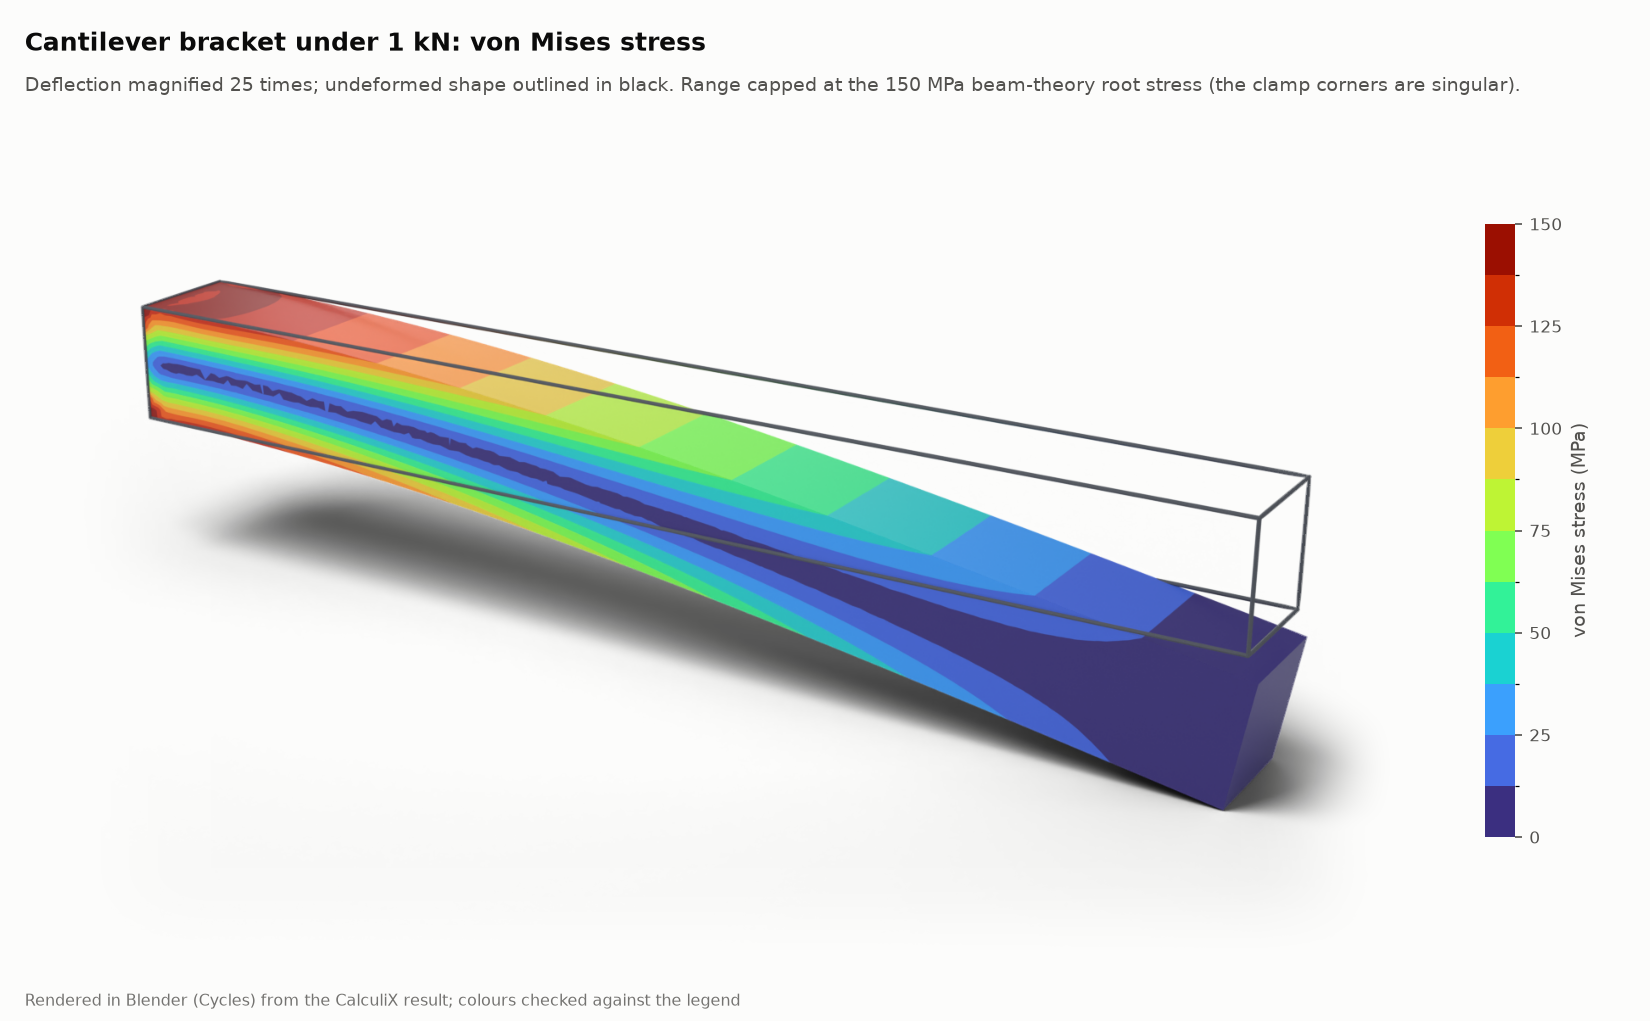
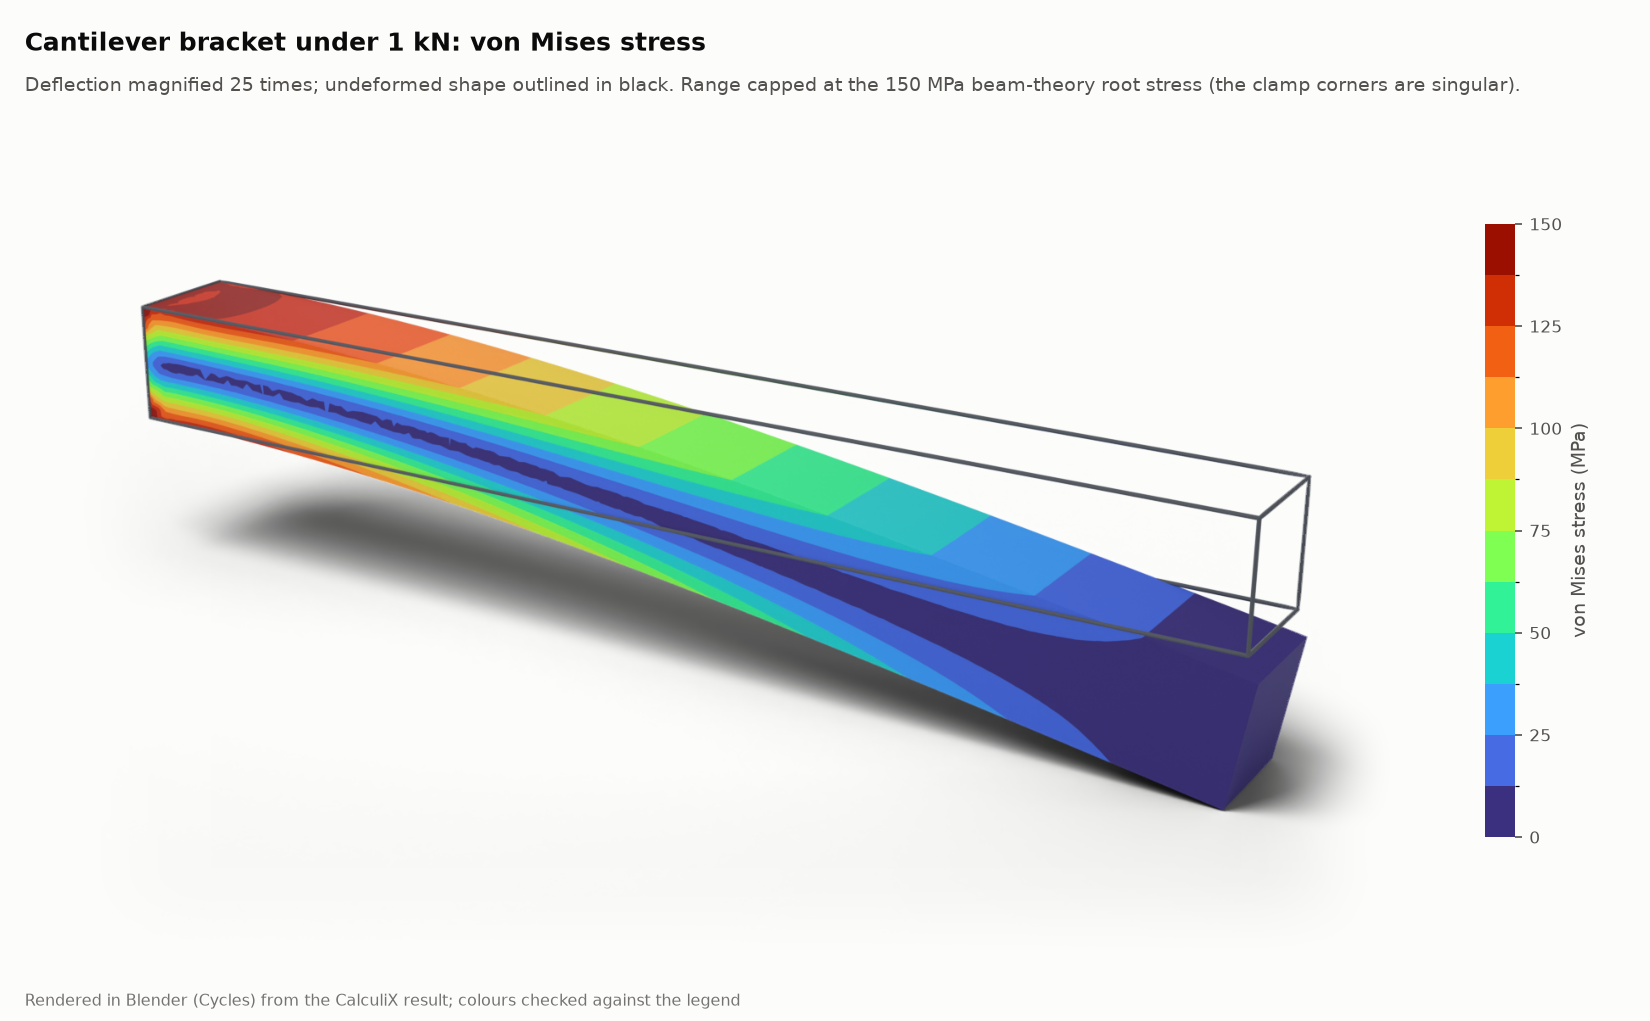
Turntable render and matte contours; README: reading the repo on another machine
render_scene.py: turntable mode (part turns under fixed lights, framing over the
whole rotation); contour material made matte so glare cannot wash out the
colours at any angle. All 16 renders re-rendered; every one passes the geometry
and legend-colour checks.

Changed region(s): [[0.1236, 0.2733, 0.4327, 0.4251], [0.7727, 0.6376, 0.8036, 0.6983]]

diff --git a/scripts/make_renders.py b/scripts/make_renders.py
@@ -356,9 +356,52 @@ def scene_duct():
                                "The volume under the surface equals the imposed flow rate (render check).")
 
 
+def scene_turntable():
+    """The cantilever result, turning: same arrays and checks, plus turntable frames."""
+    import shutil as _sh
+
+    src = scene_cantilever()
+    for ext in (".npz",):
+        _sh.copyfile(src.with_suffix(ext), BUILD / f"turntable{ext}")
+    meta = json.loads(src.with_suffix(".json").read_text(encoding="utf-8"))
+    meta.update(turntable_frames=48, turntable_samples=40, turntable_scale_percent=50, elev=18,
+                distance_factor=3.2, fill=0.92)
+    (BUILD / "turntable.json").write_text(json.dumps(meta, indent=2), encoding="utf-8")
+    return BUILD / "turntable.npz"
+
+
+def assemble_turntable(scene: Path, out_path: Path):
+    """Composite the turntable frames on the page colour with the legend; animated WebP."""
+    from PIL import Image
+
+    meta = json.loads(scene.with_suffix(".json").read_text(encoding="utf-8"))
+    frames = sorted(scene.parent.glob(f"{scene.stem}_tt_*.png"))
+    out = []
+    for f in frames:
+        fig = plt.figure(figsize=(8, 8 * 0.62), facecolor=SURFACE)
+        ax = fig.add_axes((0.0, 0.0, 0.86, 0.9))
+        ax.set_facecolor(SURFACE)
+        img = plt.imread(f)
+        h, w = img.shape[:2]
+        fade = np.outer(np.clip(np.minimum(np.arange(h), np.arange(h)[::-1]) / (0.12 * h), 0, 1),
+                        np.clip(np.minimum(np.arange(w), np.arange(w)[::-1]) / (0.12 * w), 0, 1))
+        img = img.copy()
+        img[..., 3] = np.where(img[..., 3] < 0.999, img[..., 3] * fade, img[..., 3])
+        ax.imshow(img)
+        ax.set_axis_off()
+        legend(fig, (0.885, 0.15, 0.022, 0.62), meta)
+        fig.text(0.015, 0.95, "Cantilever under 1 kN: von Mises stress on the deformed part (deflection ×25)",
+                 color=TEXT, fontsize=10.5, weight="bold", va="center")
+        fig.canvas.draw()
+        rgba = np.asarray(fig.canvas.buffer_rgba())
+        out.append(Image.fromarray(rgba[..., :3].copy()))
+        plt.close(fig)
+    out[0].save(out_path, save_all=True, append_images=out[1:], duration=70, loop=0, quality=92, method=4)
+
+
 SCENES = {"cantilever": scene_cantilever, "fin": scene_fin, "strap": scene_strap,
           "modes": scene_bracket_modes, "cad": scene_cad, "contact": scene_contact,
-          "fatigue": scene_fatigue, "duct": scene_duct}
+          "fatigue": scene_fatigue, "duct": scene_duct, "turntable": scene_turntable}
 
 
 # --------------------------------------------------------------------------- render, check, annotate
@@ -505,6 +548,8 @@ def main():
                           "Bracket arm, first four modes (CalculiX, 7 mm arm clamped at the left end)",
                           "Colour shows how far each point moves, relative to the largest motion in that mode; "
                           "undeformed shape outlined.")
+        elif name == "turntable":
+            assemble_turntable(paths[0], OUT / "turntable_cantilever.webp")
         elif name == "contact":
             annotate_grid(paths, OUT / "render_contact.png",
                           "Roller on plate, 501 N/mm: von Mises stress at the contact (CalculiX contact)",

diff --git a/scripts/blender/render_scene.py b/scripts/blender/render_scene.py
@@ -151,8 +151,8 @@ if contour:
             nt.links.new(em.outputs["Emission"], out.inputs["Surface"])
         else:
             bs = nt.nodes.new("ShaderNodeBsdfPrincipled")
-            bs.inputs["Roughness"].default_value = 0.42
-            bs.inputs["Specular IOR Level"].default_value = 0.35
+            bs.inputs["Roughness"].default_value = 0.6     # matte: no glare washing out contours at any angle
+            bs.inputs["Specular IOR Level"].default_value = 0.18
             nt.links.new(ramp.outputs["Color"], bs.inputs["Base Color"])
             nt.links.new(bs.outputs["BSDF"], out.inputs["Surface"])
         return mat
@@ -228,6 +228,11 @@ P = (allpts - centre) * scale
 if "frame_box" in meta:              # frame a detail: only points inside the box set the framing
     lo_b, hi_b = np.asarray(meta["frame_box"], dtype=float)
     P = P[np.all((allpts >= lo_b) & (allpts <= hi_b), axis=1)]
+NT = int(meta.get("turntable_frames", 0))
+if NT:   # frame the whole rotation: the part turns about the vertical axis through its centre
+    angs = np.linspace(0, 2 * np.pi, 25)[:-1]
+    P = np.vstack([P @ np.array([[np.cos(a), -np.sin(a), 0], [np.sin(a), np.cos(a), 0], [0, 0, 1]]).T
+                   for a in angs])
 # aim at the framed region itself; aiming at the whole model's centre with lens shift turns a
 # close-up into a long-lens, near-orthographic view (found on the contact close-up)
 target = (P.min(axis=0) + P.max(axis=0)) / 2 if "frame_box" in meta else np.zeros(3)
@@ -290,6 +295,22 @@ scene.cycles.use_denoising = True
 scene.cycles.use_adaptive_sampling = True
 scene.render.filepath = str(OUT.parent / (OUT.name + "_beauty.png"))
 bpy.ops.render.render(write_still=True)
+
+if NT:
+    # turntable: the part (and its outline) turn under fixed lights and camera
+    scene.cycles.samples = int(meta.get("turntable_samples", 48))
+    scene.render.resolution_percentage = int(meta.get("turntable_scale_percent", 50))
+    for k in range(NT):
+        a = 2 * math.pi * k / NT
+        part.rotation_euler = (0.0, 0.0, a)
+        if ghost_ob:
+            ghost_ob.rotation_euler = (0.0, 0.0, a)
+        scene.render.filepath = str(OUT.parent / f"{OUT.name}_tt_{k:03d}.png")
+        bpy.ops.render.render(write_still=True)
+    part.rotation_euler = (0.0, 0.0, 0.0)
+    if ghost_ob:
+        ghost_ob.rotation_euler = (0.0, 0.0, 0.0)
+    scene.render.resolution_percentage = 100
 
 if flat_mat is not None:
     # colour-check pass: unlit, one sample at the pixel centre, nothing but the part

diff --git a/README.md b/README.md
@@ -28,6 +28,7 @@ The intended user is an automotive engineer with a master's degree in mechanical
 | Strap fatigue life (chained FE + S-N) | `strap_fatigue` | CadQuery -> Gmsh -> CalculiX, then stress-life | `strap_fatigue_load` |
 | Laminar coolant channel, CFD | `openfoam_channel` | OpenFOAM 14 (in WSL) | `channel_header_mesh`, `channel_header_tolerance`, `channel_header_gap_limits`, `channel_mesh` |
 | Side-wall (3D) check of the channel | `openfoam_duct` | OpenFOAM 14 (in WSL) | `duct_side_walls` |
+| Heated coolant channel (thermal entry) | `openfoam_heated_channel` | OpenFOAM 14 (in WSL), scalarTransport | `heated_channel_mesh`, `heated_channel_flux` |
 | Heat-sink fin tip temperature, 3D conduction | `ccx_fin` | CalculiX (bundled with FreeCAD) | `fin_mesh`, `fin_tolerance`, `fin_h_sweep` |
 
 ## Project folders
@@ -42,6 +43,18 @@ The intended user is an automotive engineer with a master's degree in mechanical
 - `runs/`: evidence from individual executions; see [runs/README.md](runs/README.md). Git-ignored except curated example runs (without bulky result CSVs).
 - `.claude/skills/`: executable Claude Code skills.
 - `tests/`: pytest suite (67 tests), including negative tests showing that the checks catch wrong models and invalid assumptions.
+
+## Reading it on another machine
+
+Nothing needs installing to read the work. The portfolio pages, figures, renders and evidence reports are all committed.
+
+```powershell
+gh auth login                                         # the repository is private
+gh repo clone CptGrumpus/engineering-agent-lab
+code engineering-agent-lab                            # open PORTFOLIO.md, then Ctrl+Shift+V for the preview
+```
+
+Or browse it on GitHub: start at `PORTFOLIO.md`; each study links its evidence report under `runs/`. Raw time series and full meshes are not committed (they regenerate from the case files); everything a reviewer reads is.
 
 ## Setup and commands
 
@@ -61,7 +74,7 @@ winget install --id FreeCAD.FreeCAD                       # bundles CalculiX and
 .venv\Scripts\python.exe -m pytest -q        # Modelica/FreeCAD/OpenFOAM tests skip if the tool is absent
 ```
 
-Not yet done: heat transfer in the CFD path, 3D developing flow, structural contact with friction or plasticity, any physical validation data.
+Not yet done: conjugate heat transfer (conduction in the plate), 3D developing flow, structural contact with friction or plasticity, any physical validation data.
 
 ## First implementation milestone (done)
 

diff --git a/.claude/skills/render-results/SKILL.md b/.claude/skills/render-results/SKILL.md
@@ -117,6 +117,16 @@ several modes) go through `annotate_grid` with one shared legend.
   contact scene re-solves the finest mesh, then refuses to render unless the
   node count and the line load match the evidence run exactly.
 
+## Turntables
+
+Set `turntable_frames` (with `turntable_samples` and `turntable_scale_percent`) in a
+scene's metadata. The part turns under fixed lights and camera, the framing
+covers the whole rotation envelope, and `assemble_turntable` composites the
+frames with the legend into an animated WebP. Keep the contour material matte
+(roughness about 0.6, specular about 0.2): at some angles a glossy surface
+reflects the key light and washes the contour colours out, which a single-view
+colour check won't see.
+
 ## Animations
 
 `scripts/make_animations.py` draws time-domain results as GIFs from the saved

diff --git a/portfolio/01-cantilever-bracket.md b/portfolio/01-cantilever-bracket.md
@@ -11,6 +11,8 @@
 
 ![Von Mises stress on the deformed cantilever, rendered in Blender](img/render_cantilever.png)
 
+![The same result turning, rendered in Blender](img/turntable_cantilever.webp)
+
 ## The question
 
 A steel bracket, 200 mm long with a 20 by 20 mm section, carries a 1 kN load at its tip. Does it stay within a 1.0 mm deflection limit and a 213 MPa stress limit? And how accurate is the model?
